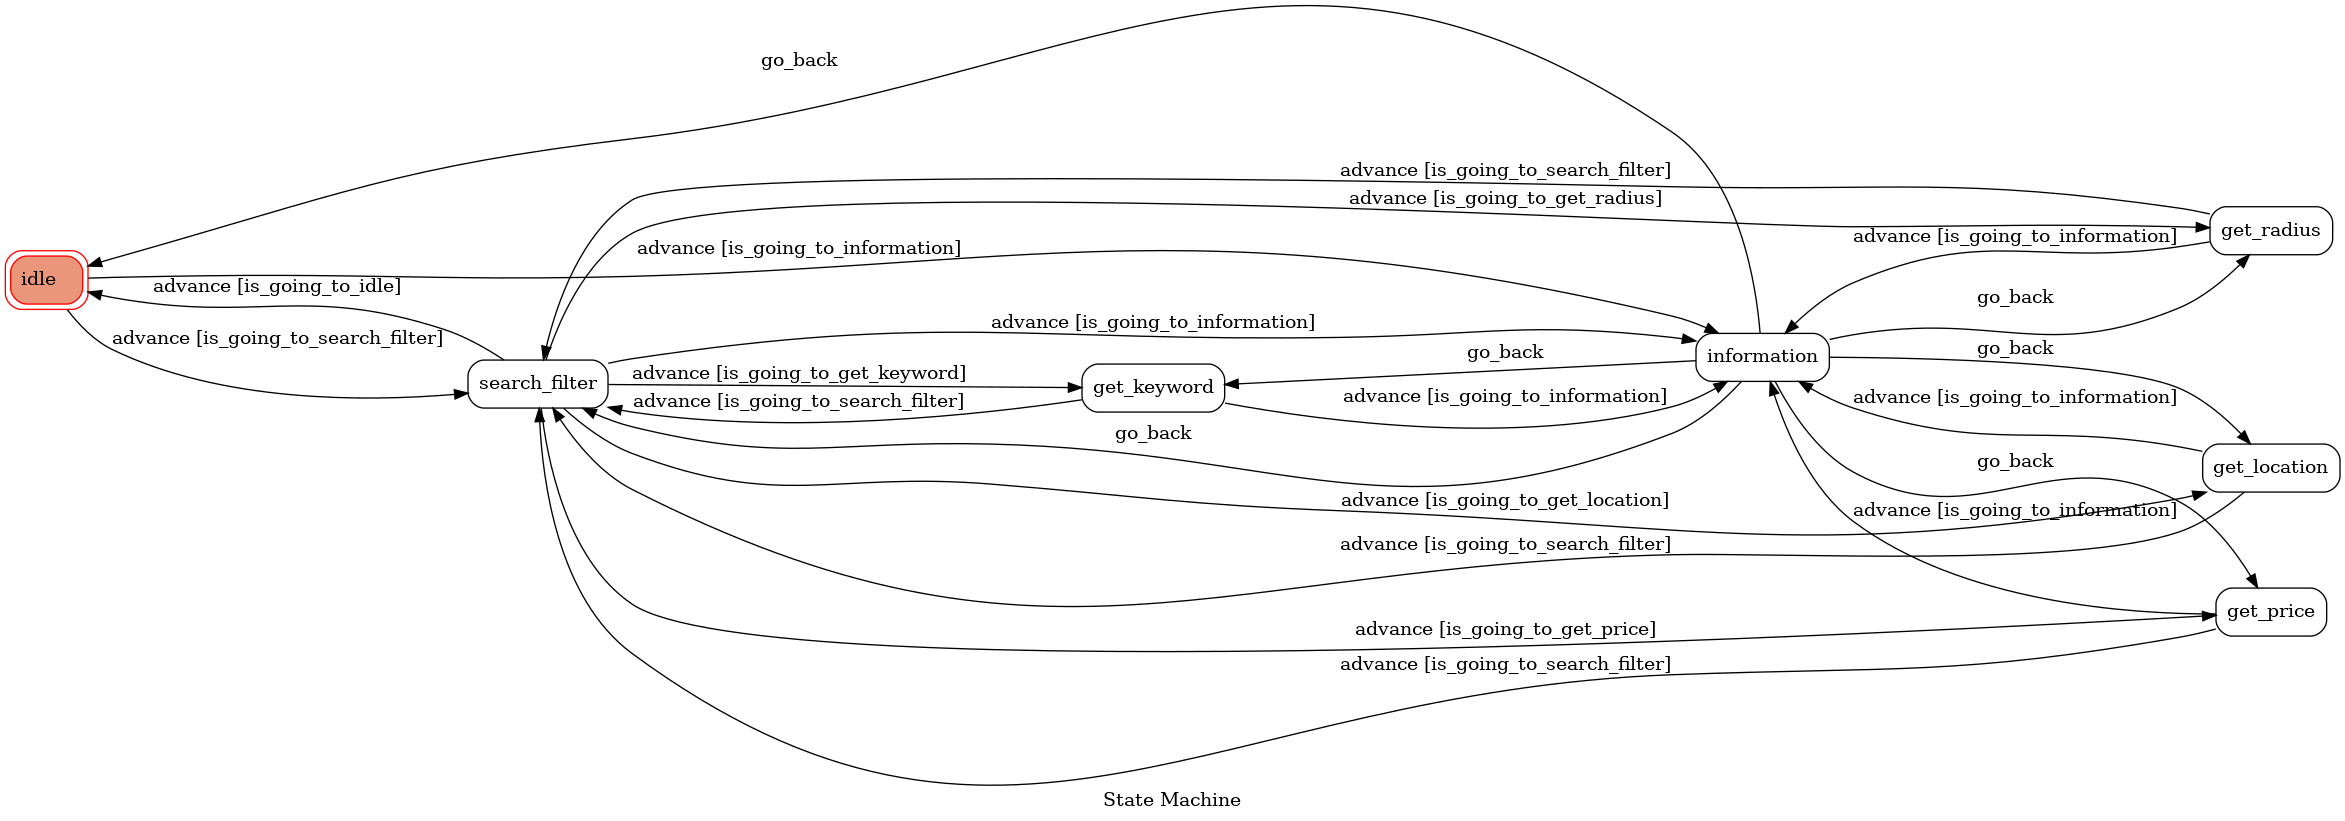
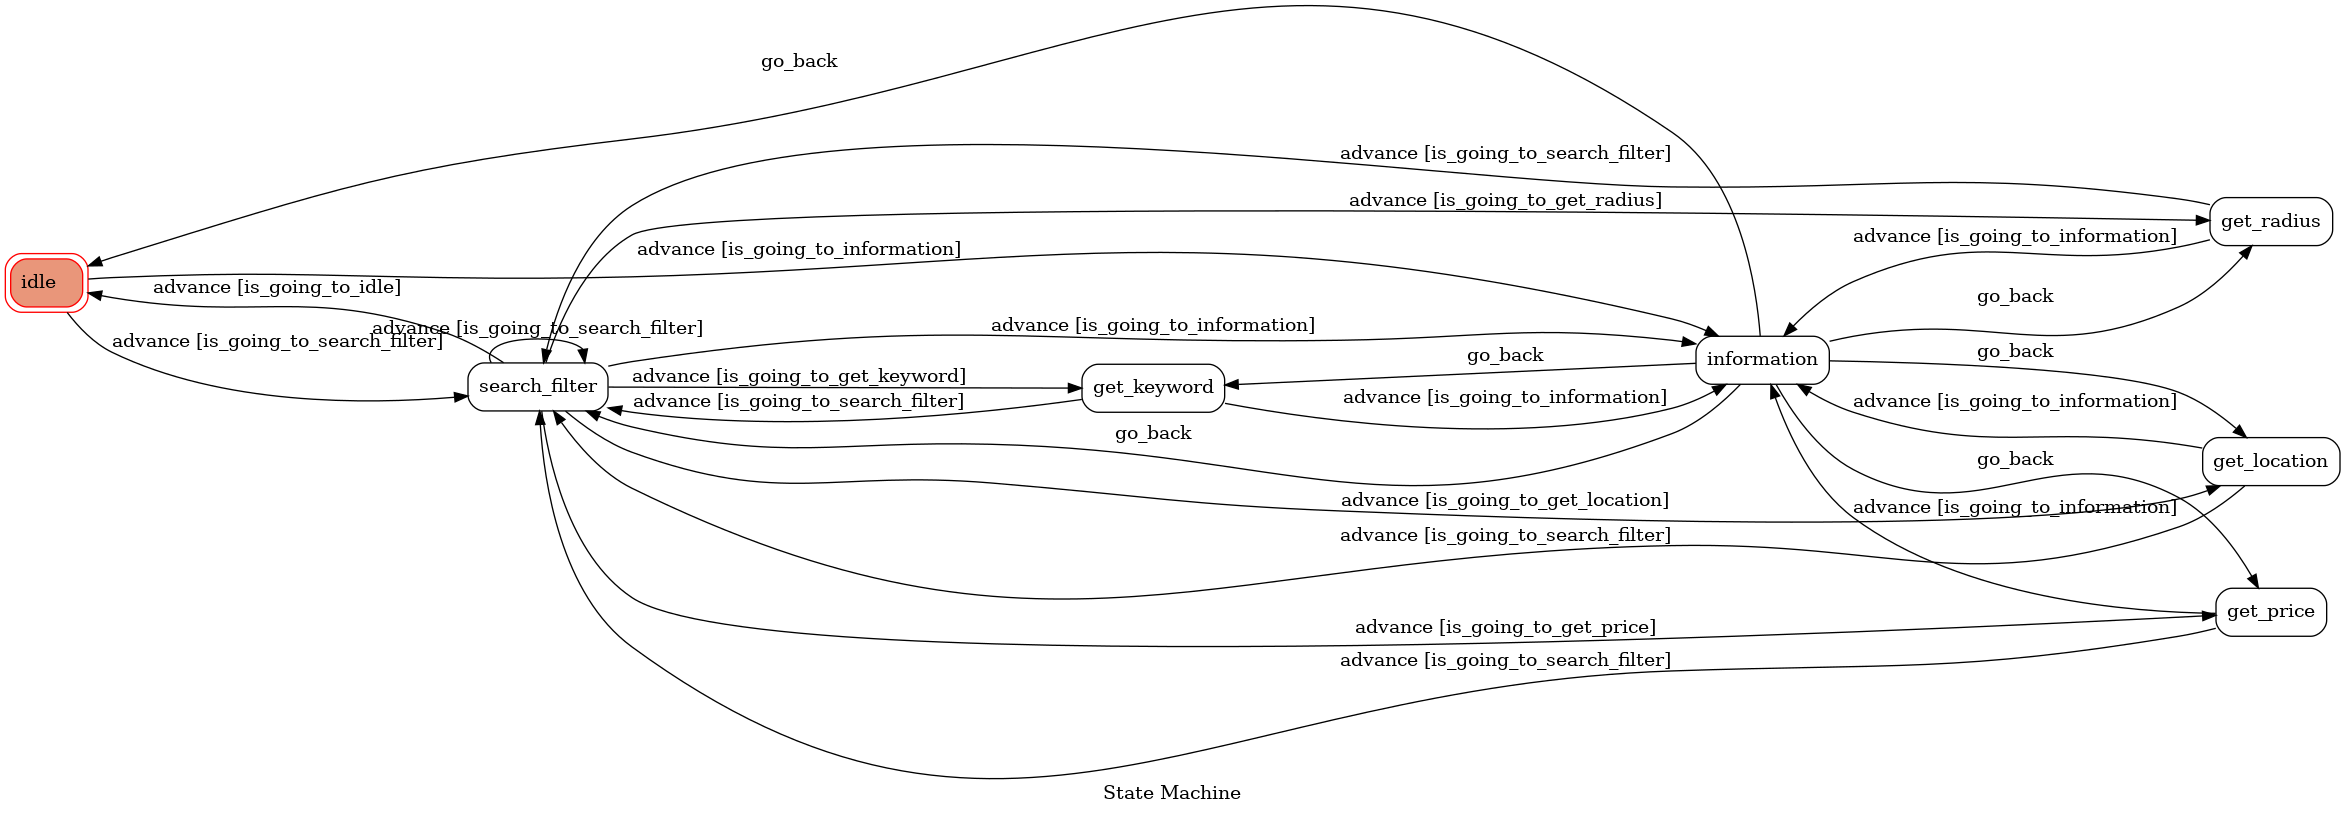
test: test fsm

diff --git a/fsm_controller.py b/fsm_controller.py
@@ -25,6 +25,10 @@ class Waiterian_Machine(GraphMachine):
             if msg == 'FOOD':
                 show_search_filter(event)       # idle -> search_filter
                 return True
+        if self.state == 'search_filter':
+            if msg == '顯示所有設定':
+                show_all_setting(event)         # search_filter -> search_filter
+                return True
         if self.state == 'get_location':
             return get_the_location(event)      # get_location -> search_filter
         if self.state == 'get_radius':
@@ -63,7 +67,7 @@ class Waiterian_Machine(GraphMachine):
 
     def is_going_to_get_keyword(self, event):
         msg = event.message.text.upper() if event.message.type == 'text' else ''
-        if msg == '顯示所有設定':
+        if msg == '使用關鍵字搜尋':
             show_all_setting(event)             # search_filter -> search_filter
             return True
         return False
@@ -136,6 +140,12 @@ def get_fsm(init_state):
             "source": "search_filter",
             "dest": "get_keyword",
             "conditions": "is_going_to_get_keyword",
+        },
+        {
+            "trigger": "advance",
+            "source": "search_filter",
+            "dest": "search_filter",
+            "conditions": "is_going_to_search_filter",
         },
         {
             "trigger": "advance",
